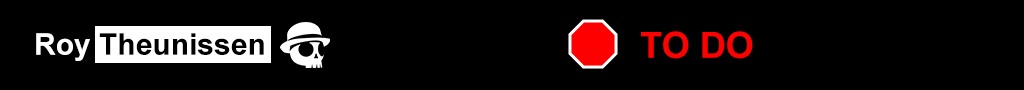
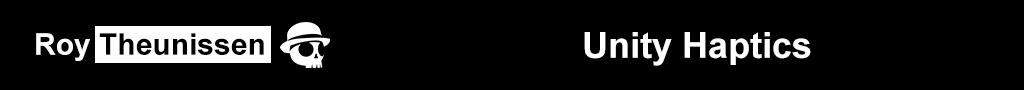
Changes to make the module unique.

Changed region(s): [[0.5312, 0.2, 0.8125, 0.7778]]

diff --git a/README.md b/README.md
@@ -50,7 +50,7 @@ The package is available on the [openupm registry](https://openupm.com). It's re
 
 🛑 <b><u>TO DO</u></b>
 ```
-openupm add com.roytheunissen.assetpalette
+openupm add com.roytheunissen.unity-haptics
 ```
 
 ### Manifest
@@ -58,13 +58,13 @@ You can also install via git URL by adding this entry in your **manifest.json**
 
 🛑 <b><u>TO DO</u></b>
 ```
-"com.roytheunissen.assetpalette": "https://github.com/RoyTheunissen/Asset-Palette.git"
+"com.roytheunissen.unity-haptics": "https://github.com/RoyTheunissen/Unity-Haptics.git"
 ```
 
 ### Unity Package Manager
 🛑 <b><u>TO DO</u></b>
 ```
-from Window->Package Manager, click on the + sign and Add from git: https://github.com/RoyTheunissen/Asset-Palette.git
+from Window->Package Manager, click on the + sign and Add from git: https://github.com/RoyTheunissen/Unity-Haptics.git
 ```
 
 
